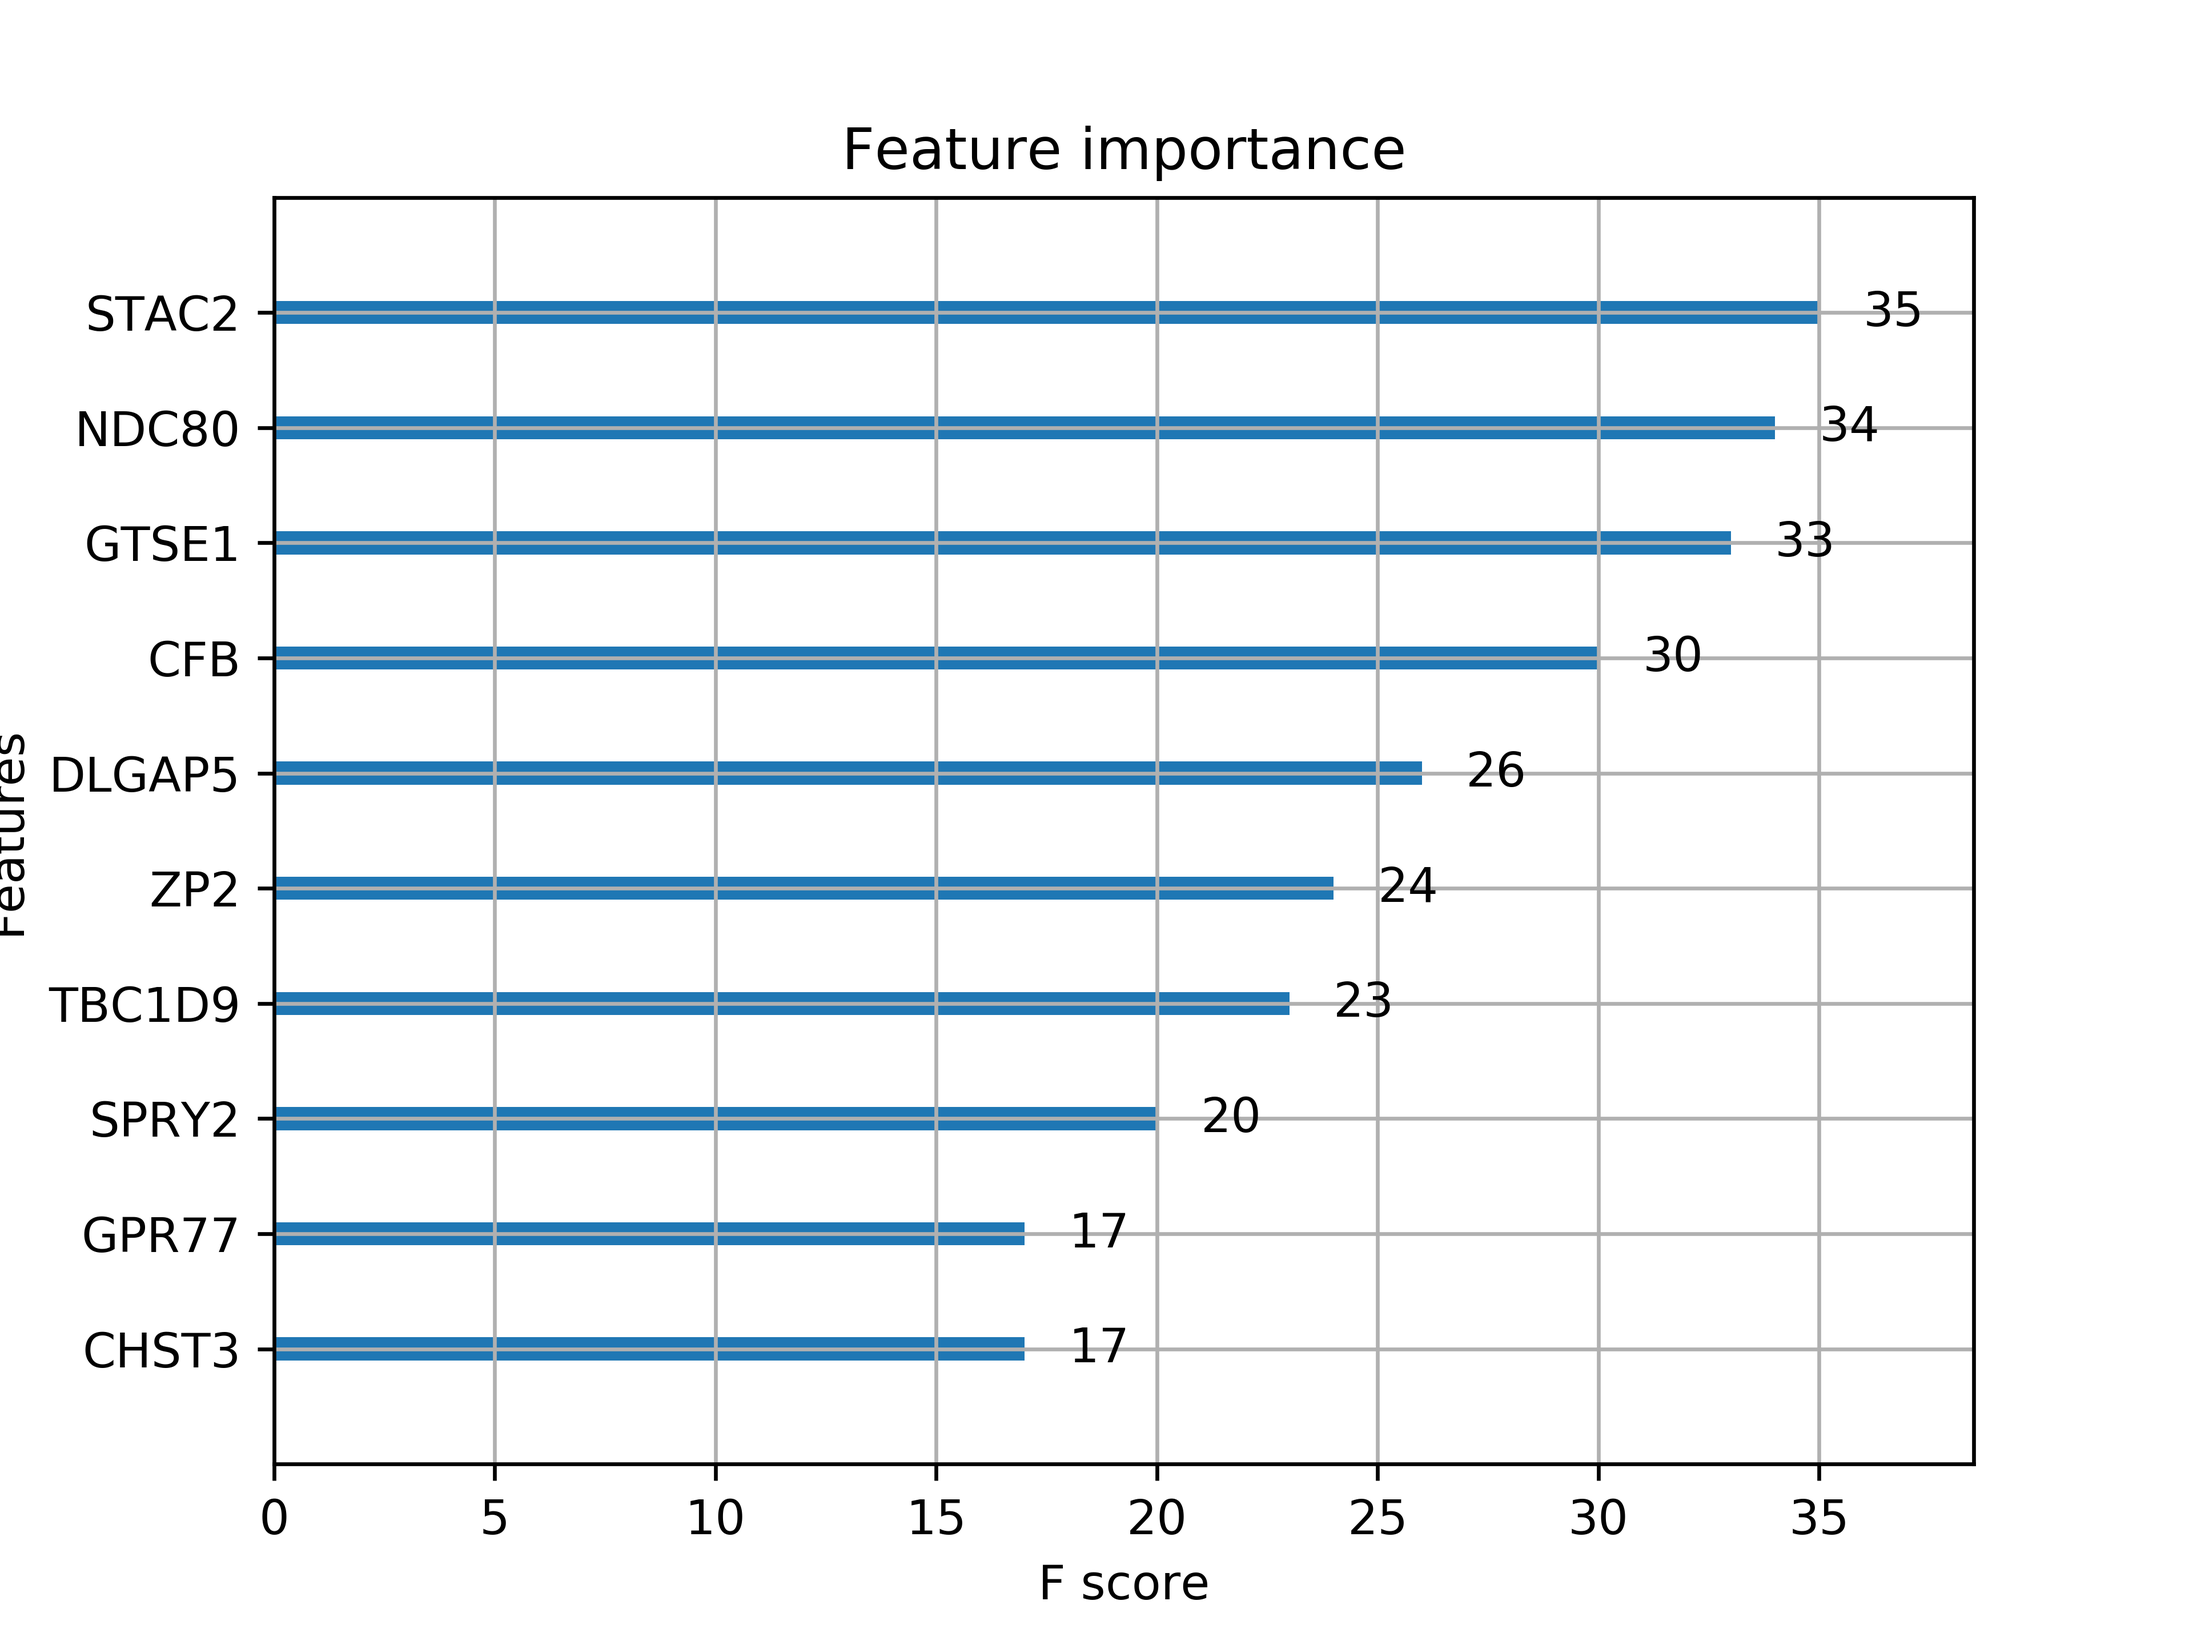
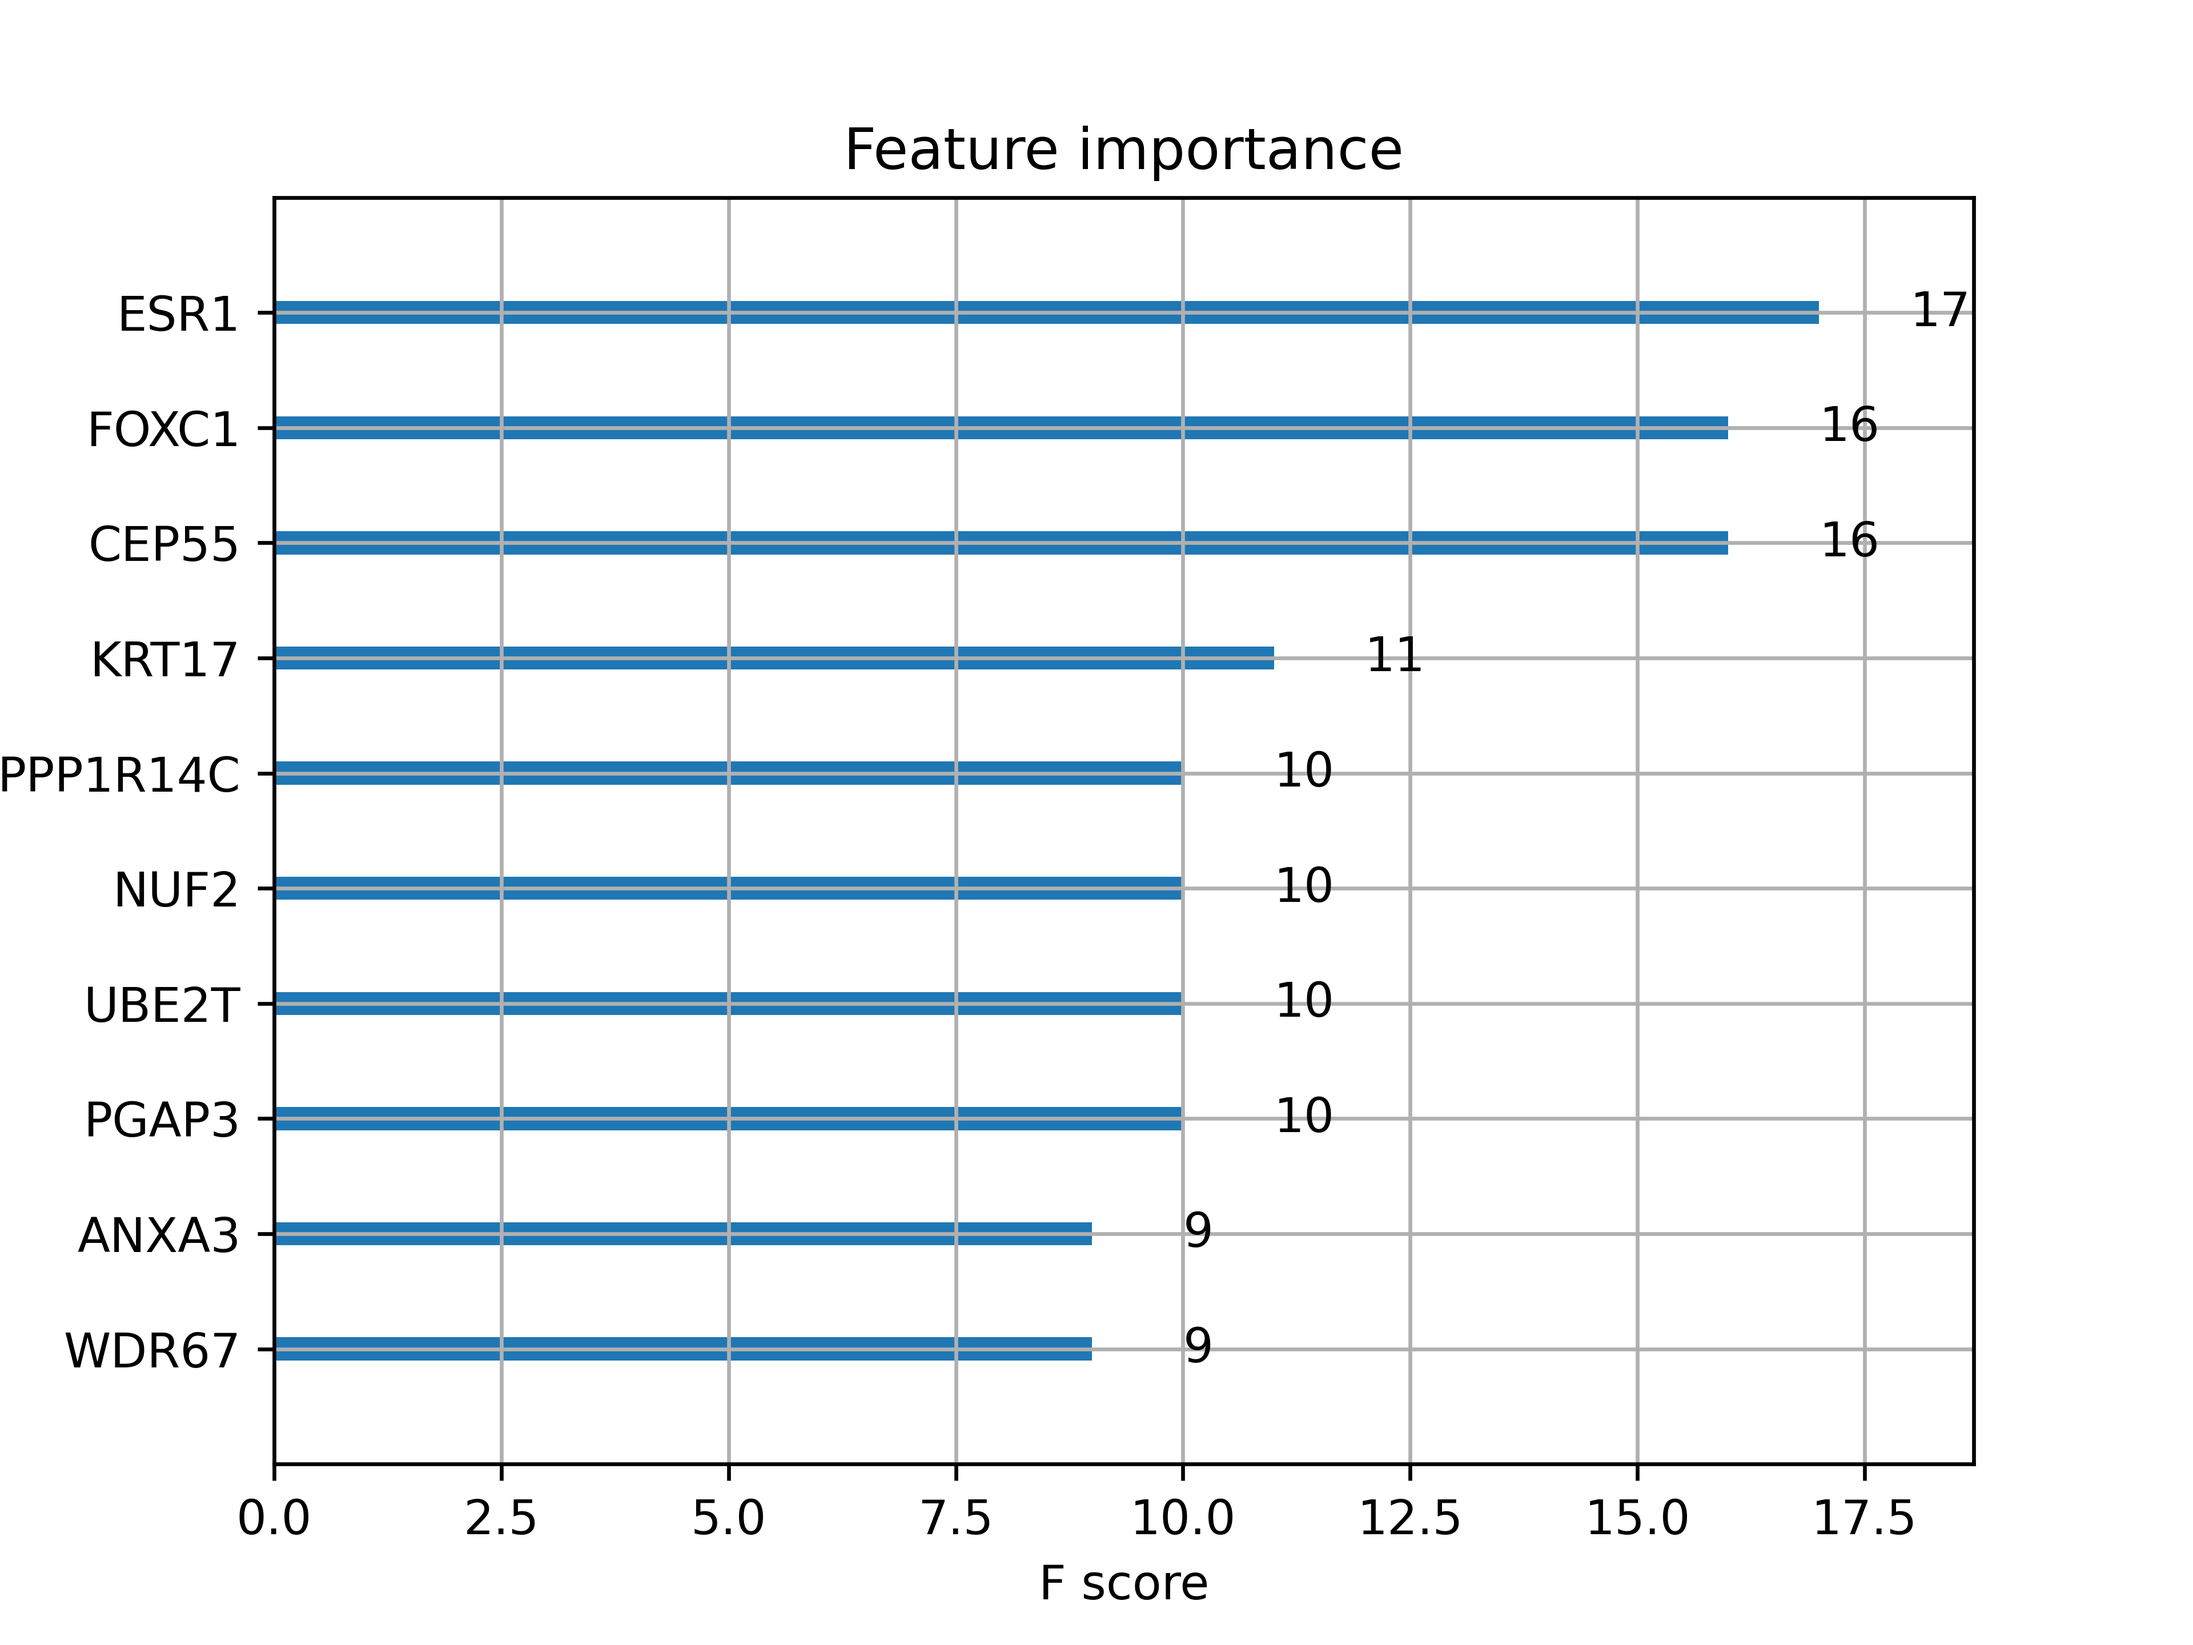
Added KMeans unsupervised

diff --git a/GradientBoost/ga2.py b/GradientBoost/ga2.py
@@ -17,9 +17,19 @@ print("Load data")
 dt = pd.read_csv("../Kasperstuff/masterNew.csv",sep=";")
 print(dt.head())
 
-data = dt.values #dt.to_numpy() in old versions
+"""data = dt.values #dt.to_numpy() in old versions
 X = np.array([i[1:-1] for i in data])
 y = np.array([i[-1] for i in data])
+feature_cols = list(dt.columns)[1:-1]"""
+
+#The martin way
+first_column = dt.columns[0]
+X = dt.drop([first_column], axis=1)
+feature_labels = X.columns
+y = X.iloc[:,-1]
+X=X.iloc[:, :-1]
+print(X)
+print(y)
 
 y_labels = [ 
 	'Normal',
@@ -36,7 +46,7 @@ if False:
 		def startified_attempt(depth=None):
 			print("Classifying...")
 			model = XGBClassifier(max_depth=depth, use_label_encoder=False)
-			kfold = StratifiedKFold(random_state=0) #n_splits=10, 
+			kfold = StratifiedKFold(shuffle=True, random_state=0) #n_splits=10, 
 			results = cross_val_score(model, X, y, cv=kfold)
 			print("Accuracy {}: {:.2f} ({:.2f})".format(depth, results.mean()*100, results.std()*100))
 			f.write("Accuracy {}: {:.2f} ({:.2f})\n".format(depth, results.mean()*100, results.std()*100))
@@ -52,20 +62,20 @@ if False:
 		startified_attempt(depth=10)
 
 if True:
-	clf = XGBClassifier(max_depth=8)
+	clf = XGBClassifier(max_depth=5)
 	X_train, X_test, y_train, y_test = train_test_split(X, y, test_size=0.30, random_state=0)
 
 	clf.fit(X_train, y_train)
 	acc = clf.score(X_test, y_test)
 
 	#print("Accuracy: %.2f%% (%.2f%%)" % (results.mean()*100, results.std()*100))
-	print("Accuracy {}: {:.2f}".format(6, acc))
+	print("Accuracy {}: {:.2f}".format(5, acc))
 
 	plot_tree(clf, label=y_labels) #, feature_names=feature_cols
-	plt.savefig("ga2_{}_{:.6f}.png".format(6, acc), dpi=600)
+	plt.savefig("ga2_{}_{:.6f}.png".format(5, acc), dpi=600)
 
-	plot_importance(clf, max_num_features=10)
-	plt.savefig("ga2_{}_importance_table.png".format(6), dpi=600)
+	plot_importance(clf, max_num_features=50)
+	plt.savefig("ga2_{}_importance_table50.png".format(5), dpi=600, height=0.8)
 
 if False:
 	# Test split

diff --git a/Unsup/KMeans.py b/Unsup/KMeans.py
@@ -1,0 +1,68 @@
+import matplotlib.pyplot as plt
+from mpl_toolkits.mplot3d import Axes3D
+from sklearn.cluster import KMeans
+from sklearn.preprocessing import StandardScaler
+from sklearn.metrics import silhouette_score
+import numpy as np
+import pandas as pd
+import sys
+
+#Load data
+print("Load data")
+#dt = pd.read_csv("../HiSeq/master.csv",sep=";")
+dt = pd.read_csv("../Kasperstuff/masterNew.csv",sep=";")
+print(dt.head())
+
+#The martin way
+first_column = dt.columns[0]
+X = dt.drop([first_column], axis=1)
+feature_labels = X.columns
+y = X.iloc[:,-1]
+X=X.iloc[:, :-1]
+print(X)
+print(y)
+
+y_labels = [ 
+	'Normal',
+	'Basal',
+	'Her2',
+	'LumA',
+	'LumB'
+]
+
+y = np.array([y_labels.index(i) for i in y])
+
+#KMeans
+#km = KMeans(n_clusters=5).fit(X)
+#km.predict(X)
+#print(km.labels_[::10])
+#print(set(km.labels_))
+
+scaler = StandardScaler()
+scaled_features = scaler.fit_transform(X)
+
+# A list holds the silhouette coefficients for each k
+silhouette_coefficients = []
+
+kmeans_kwargs = {
+	"init": "random",
+	"n_init": 10,
+	"max_iter": 300,
+	"random_state": 42,
+}
+
+# Notice you start at 2 clusters for silhouette coefficient
+man = 20
+for k in range(2, man):
+	kmeans = KMeans(n_clusters=k, **kmeans_kwargs)
+	kmeans.fit(scaled_features)
+	score = silhouette_score(scaled_features, kmeans.labels_)
+	silhouette_coefficients.append(score)
+
+plt.style.use("fivethirtyeight")
+plt.plot(range(2, man), silhouette_coefficients)
+plt.xticks(range(2, man))
+plt.xlabel("Number of Clusters")
+plt.ylabel("Silhouette Coefficient")
+#plt.show()
+plt.savefig("KMeans.png", dpi=600)

diff --git a/Unsup/TSNE.py b/Unsup/TSNE.py
@@ -1,0 +1,43 @@
+import matplotlib.pyplot as plt
+from sklearn.manifold import TSNE
+import numpy as np
+import pandas as pd
+import sys
+
+#Load data
+print("Load data")
+#dt = pd.read_csv("../HiSeq/master.csv",sep=";")
+dt = pd.read_csv("../Kasperstuff/masterNew.csv",sep=";")
+print(dt.head())
+
+#The martin way
+first_column = dt.columns[0]
+X = dt.drop([first_column], axis=1)
+feature_labels = X.columns
+y = X.iloc[:,-1]
+X=X.iloc[:, :-1]
+print(X)
+print(y)
+
+y_labels = [ 
+	'Normal',
+	'Basal',
+	'Her2',
+	'LumA',
+	'LumB'
+]
+
+y = np.array([y_labels.index(i) for i in y])
+
+# Defining Model
+model = TSNE(learning_rate=100)
+
+# Fitting Model
+transformed = model.fit_transform(X) #WRONG
+
+# Plotting 2d t-Sne
+x_axis = transformed[:, 0]
+y_axis = transformed[:, 1]
+
+plt.scatter(x_axis, y_axis, c=y)
+plt.savefig("TSNE.png", dpi=600)
